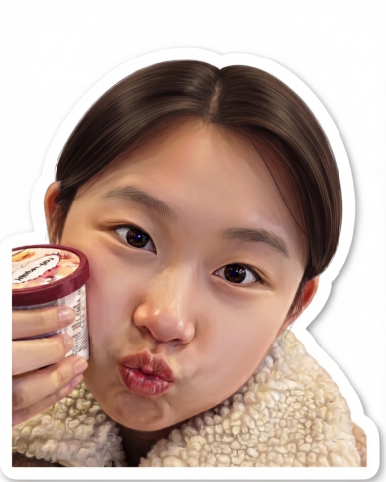
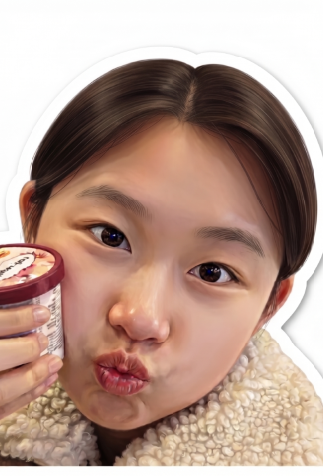
쫌많이 이미지 업데이트 반영(위치 초기화), 알잘딱/레전드 박스에 꽉 차게 확대, 그라데이션 강화, 텍스트 테두리 약화

diff --git a/index.html b/index.html
@@ -65,11 +65,11 @@ nav.tabs button.active{background:var(--panel2);color:var(--text);border-color:v
 .meal-card-photo{border-color:transparent;background:#fff;}
 .meal-card-done.meal-card-photo{background:#fff;}
 .meal-card-bg{position:absolute;inset:0;width:100%;height:100%;object-fit:cover;z-index:0;}
-.meal-card-overlay{position:absolute;inset:0;background:linear-gradient(rgba(0,0,0,0.08),rgba(0,0,0,0.22));z-index:1;}
+.meal-card-overlay{position:absolute;inset:0;background:linear-gradient(rgba(0,0,0,0.15),rgba(0,0,0,0.32));z-index:1;}
 .meal-card-photo .meal-card-top,.meal-card-photo .meal-card-label,.meal-card-photo .meal-card-status{position:relative;z-index:2;}
-.meal-card-photo .meal-card-preview{color:#fff;-webkit-text-stroke:0.35px rgba(0,0,0,0.6);text-shadow:-0.5px -0.5px 0 rgba(0,0,0,0.6),0.5px -0.5px 0 rgba(0,0,0,0.6),-0.5px 0.5px 0 rgba(0,0,0,0.6),0.5px 0.5px 0 rgba(0,0,0,0.6);}
-.meal-card-photo .meal-card-label{color:#fff;-webkit-text-stroke:0.35px rgba(0,0,0,0.6);text-shadow:-0.5px -0.5px 0 rgba(0,0,0,0.6),0.5px -0.5px 0 rgba(0,0,0,0.6),-0.5px 0.5px 0 rgba(0,0,0,0.6),0.5px 0.5px 0 rgba(0,0,0,0.6);}
-.meal-card-photo .meal-status-bold{color:#fff;-webkit-text-stroke:0.35px rgba(0,0,0,0.6);text-shadow:-0.5px -0.5px 0 rgba(0,0,0,0.6),0.5px -0.5px 0 rgba(0,0,0,0.6),-0.5px 0.5px 0 rgba(0,0,0,0.6),0.5px 0.5px 0 rgba(0,0,0,0.6);}
+.meal-card-photo .meal-card-preview{color:#fff;-webkit-text-stroke:0.25px rgba(0,0,0,0.4);text-shadow:-0.5px -0.5px 0 rgba(0,0,0,0.4),0.5px -0.5px 0 rgba(0,0,0,0.4),-0.5px 0.5px 0 rgba(0,0,0,0.4),0.5px 0.5px 0 rgba(0,0,0,0.4);}
+.meal-card-photo .meal-card-label{color:#fff;-webkit-text-stroke:0.25px rgba(0,0,0,0.4);text-shadow:-0.5px -0.5px 0 rgba(0,0,0,0.4),0.5px -0.5px 0 rgba(0,0,0,0.4),-0.5px 0.5px 0 rgba(0,0,0,0.4),0.5px 0.5px 0 rgba(0,0,0,0.4);}
+.meal-card-photo .meal-status-bold{color:#fff;-webkit-text-stroke:0.25px rgba(0,0,0,0.4);text-shadow:-0.5px -0.5px 0 rgba(0,0,0,0.4),0.5px -0.5px 0 rgba(0,0,0,0.4),-0.5px 0.5px 0 rgba(0,0,0,0.4),0.5px 0.5px 0 rgba(0,0,0,0.4);}
 .meal-card-photo .meal-card-edit{color:#fff;filter:drop-shadow(0 1px 2px rgba(0,0,0,0.7));}
 .meal-card-photo .meal-card-icon{filter:drop-shadow(0 1px 2px rgba(0,0,0,0.7));}
 .meal-card-top{display:flex;align-items:flex-start;gap:4px;flex-shrink:0;}
@@ -280,7 +280,7 @@ button.iconbtn.habit-nav-btn.habit-nav-btn-weekly{color:var(--accent2);}
 <script src="https://www.gstatic.com/firebasejs/9.23.0/firebase-app-compat.js"></script>
 <script src="https://www.gstatic.com/firebasejs/9.23.0/firebase-auth-compat.js"></script>
 <script src="https://www.gstatic.com/firebasejs/9.23.0/firebase-firestore-compat.js"></script>
-<script src="firebase-config.js?v=20260816s"></script>
-<script src="app.js?v=20260816s"></script>
+<script src="firebase-config.js?v=20260816t"></script>
+<script src="app.js?v=20260816t"></script>
 </body>
 </html>
